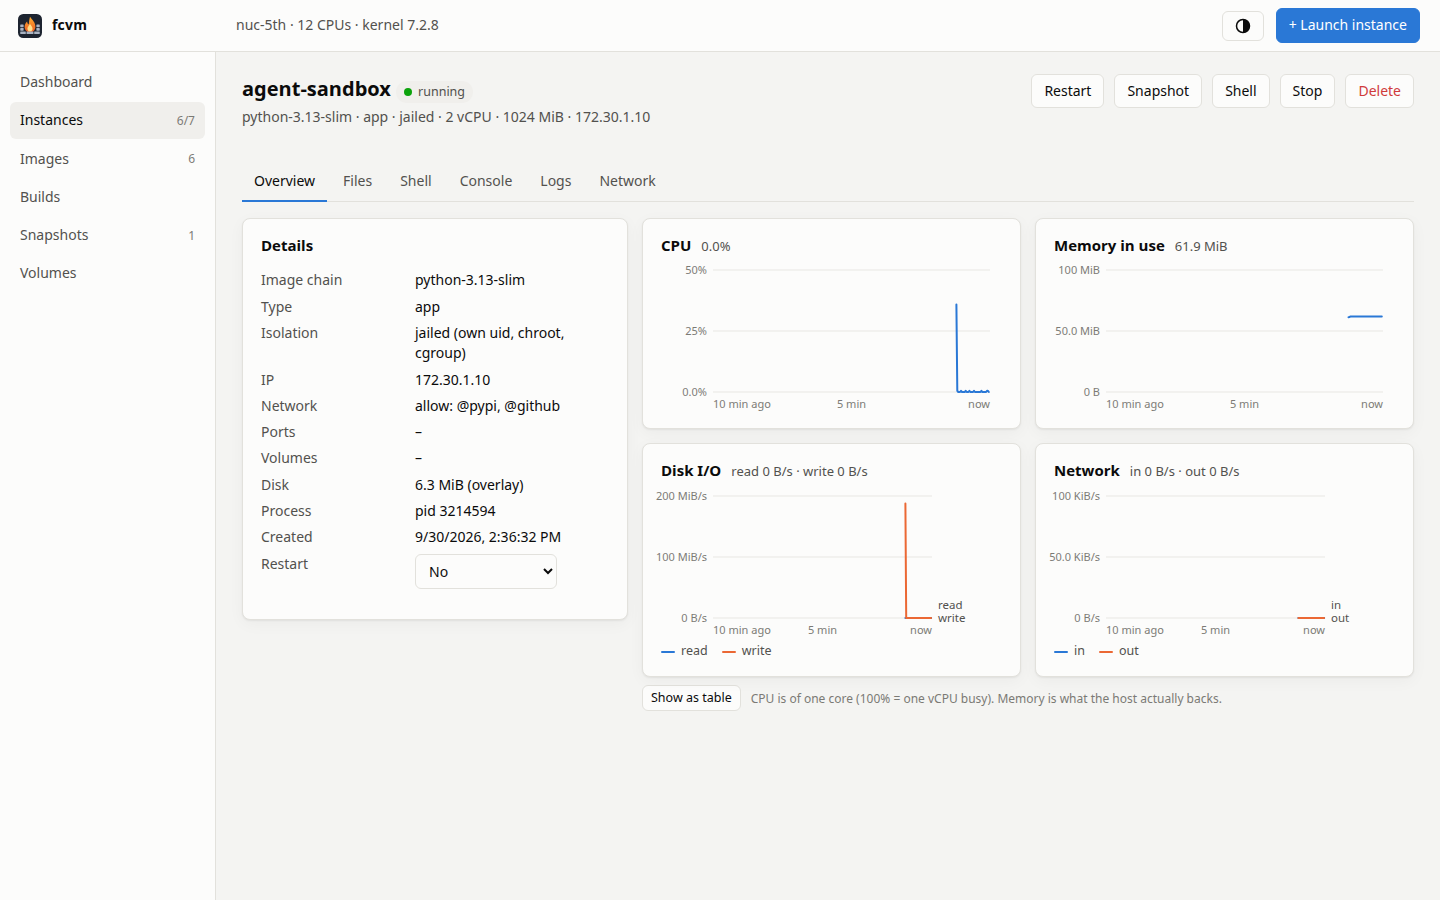
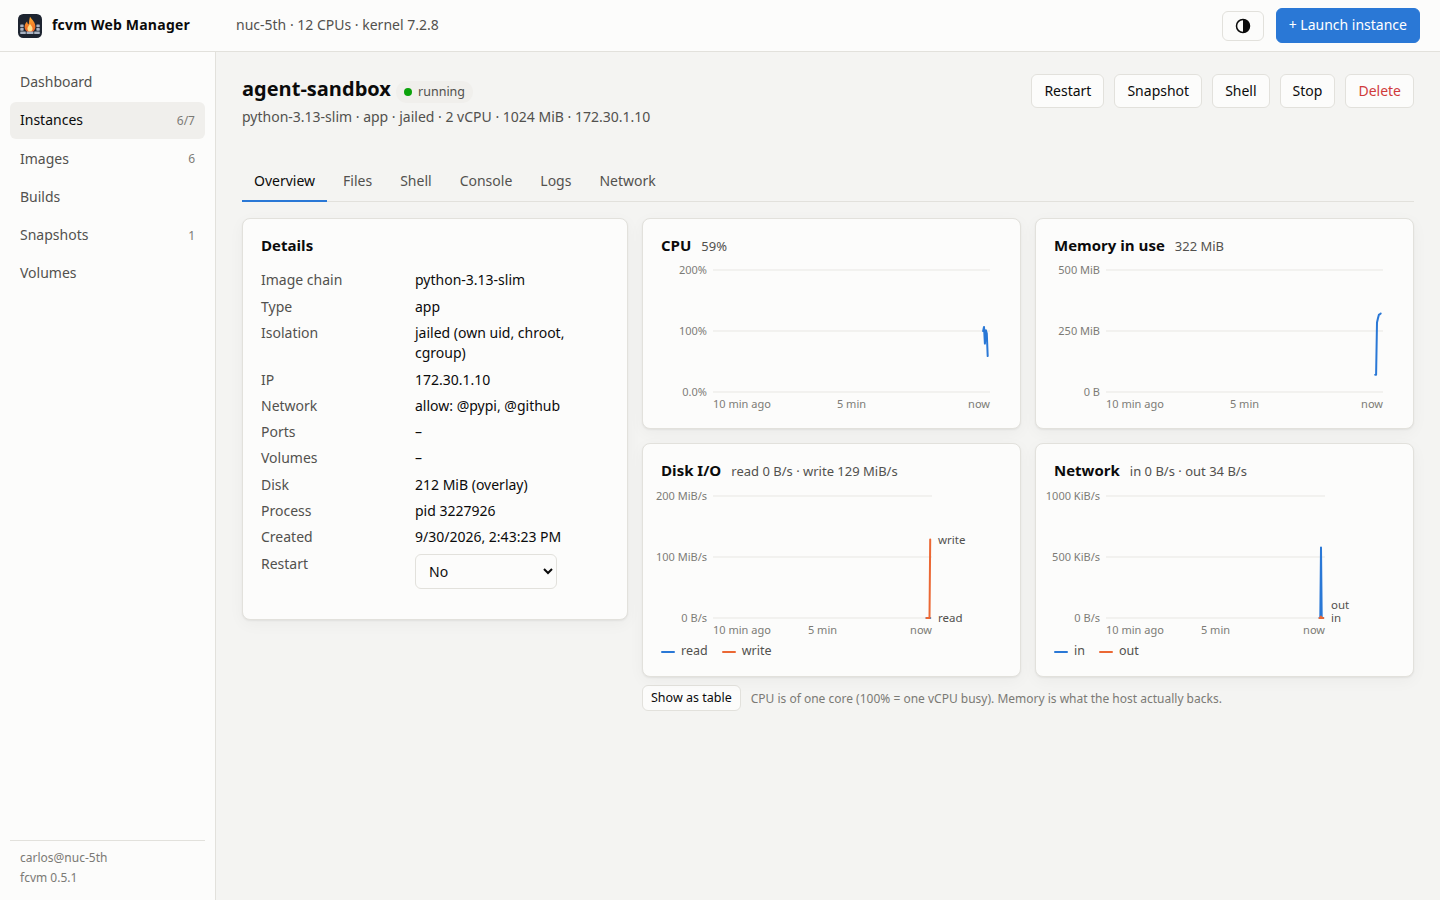
Web console: "fcvm Web Manager", user and version in the sidebar, one Launch button
- The header says "fcvm Web Manager" next to the icon.
- The bottom of the sidebar shows user@host (who the console and its VMs run
  as) and the fcvm release, linked to the changelog, with the exact build in
  the tooltip. /api/host includes user and version for it. Hidden on
  phones, where the sidebar becomes a strip.
- The Instances page no longer has a second "+ Launch instance" under the
  top bar's.
- Screenshots retaken.

Claude-Session: https://claude.ai/code/session_01QVeYKtNTbJKsdmR5X97hsQ

diff --git a/lib/web/static/app.js b/lib/web/static/app.js
@@ -123,6 +123,10 @@ function chrome() {
   const hst = state.host;
   if (hst) {
     $("host").textContent = `${hst.hostname} · ${hst.cpus} CPUs · kernel ${hst.kernel.replace("vmlinux-", "")}`;
+    if (!$("about").childElementCount && hst.version) $("about").replaceChildren(
+      h("div", { title: "the user this console (and its VMs) run as" }, `${hst.user}@${hst.hostname}`),
+      h("a", { href: "https://github.com/carlosbravoa/fcvm/blob/main/CHANGELOG.md", target: "_blank", rel: "noopener",
+               title: `fcvm ${hst.version}: what's new` }, `fcvm ${hst.version.split("+")[0]}`));
     const active = state.jobs.filter((j) => j.status === "running");
     $("foot").replaceChildren(active.length ? h("div", { class: "jobs" },
       active.map((j) => h("div", { class: "job" }, "⟳ ", j.title))) : "");
@@ -343,7 +347,7 @@ function instances() {
   $("main").replaceChildren(
     h("div", { class: "head" }, h("div", {}, h("h1", {}, "Instances"),
       h("p", { class: "sub" }, "Firecracker microVMs. App VMs run their image's command; system VMs boot systemd.")),
-      h("span", { class: "spacer" }), h("button", { class: "primary", onclick: () => launchDialog() }, "+ Launch instance")),
+      h("span", { class: "spacer" })),
     h("div", { class: "card", style: "overflow-x:auto" }, state.vms.length ? h("table", {},
       h("thead", {}, h("tr", {}, ["Name", "State", "Image", "IP", "vCPU", "Memory", "Network", "Created", ""].map((c, i) =>
         h("th", { class: i === 4 ? "num" : "" }, c)))),

diff --git a/lib/web/static/style.css b/lib/web/static/style.css
@@ -100,6 +100,10 @@ nav a:hover { background: var(--surface-2); text-decoration: none; }
 nav a.active { background: var(--surface-2); color: var(--text-primary); }
 nav .count { margin-left: auto; font-size: 12px; color: var(--text-muted); }
 nav .foot { margin-top: auto; font-size: 12px; color: var(--text-muted); padding: 8px 10px; }
+nav .about { font-size: 12px; color: var(--text-muted); padding: 8px 10px 2px; border-top: 1px solid var(--border);
+  display: flex; flex-direction: column; gap: 2px; overflow-wrap: anywhere; }
+nav .about a { padding: 0; color: var(--text-muted); font-weight: 400; }
+nav .about a:hover { background: none; color: var(--accent); }
 main { grid-area: main; overflow: auto; padding: 22px 26px 60px; }
 
 h1 { font-size: 20px; margin: 0 0 4px; font-weight: 650; }
@@ -233,7 +237,7 @@ pre.log {
 @media (max-width: 760px) {
   body { grid-template-columns: 1fr; grid-template-areas: "brand" "top" "nav" "main"; grid-template-rows: 52px 52px auto 1fr; }
   nav { flex-direction: row; overflow-x: auto; border-right: none; border-bottom: 1px solid var(--border); }
-  nav .foot { display: none; }
+  nav .foot, nav .about { display: none; }
   main { padding: 16px; }
   .modal .form { grid-template-columns: 1fr; }
 }

diff --git a/lib/web/static/index.html b/lib/web/static/index.html
@@ -12,7 +12,7 @@
   <script src="/static/app.js" defer></script>
 </head>
 <body>
-  <div class="brand"><span class="logo" aria-hidden="true"></span> fcvm</div>
+  <div class="brand"><span class="logo" aria-hidden="true"></span> fcvm Web Manager</div>
   <div class="top">
     <span class="host" id="host">…</span>
     <span class="spacer"></span>
@@ -27,6 +27,7 @@
     <a href="#/snapshots" data-page="snapshots">Snapshots <span class="count" id="n-snapshots"></span></a>
     <a href="#/volumes" data-page="volumes">Volumes <span class="count" id="n-volumes"></span></a>
     <div class="foot" id="foot"></div>
+    <div class="about" id="about"></div>
   </nav>
   <main id="main"></main>
   <div class="toasts" id="toasts" aria-live="polite"></div>

diff --git a/lib/web/server.py b/lib/web/server.py
@@ -28,10 +28,12 @@ import hashlib
 import json
 import mimetypes
 import os
+import pwd
 import re
 import secrets
 import shutil
 import struct
+import subprocess
 import sys
 import time
 import urllib.parse
@@ -451,6 +453,10 @@ class App:
         self.supervisor = Supervisor(FCVM, VMS)
         self.jobs = Jobs()
         self.stats = Stats()
+        # who runs this console, and which fcvm (for the sidebar's footer)
+        self.user = pwd.getpwuid(os.getuid()).pw_name
+        v = subprocess.run([FCVM, "-V"], capture_output=True, text=True).stdout.split()
+        self.version = v[1] if len(v) > 1 else "?"
         self.last_builds = {}
 
     # auth -------------------------------------------------------------------------
@@ -789,6 +795,7 @@ class App:
         locks = os.path.join(VMS, ".locks")
         return {
             "hostname": os.uname().nodename, "cpus": os.cpu_count(), "load": [float(x) for x in load],
+            "user": self.user, "version": self.version,
             "kernel": os.path.basename(os.path.realpath(os.path.join(STATE, "kernels", "vmlinux"))),
             "disk_total": st.f_blocks * st.f_frsize, "disk_free": st.f_bavail * st.f_frsize,
             "taps_full": taps("fctap"), "taps_restricted": taps("fcrtap"),

diff --git a/CHANGELOG.md b/CHANGELOG.md
@@ -8,6 +8,10 @@ to move across.
 
 - Web console: a "jailed" tag next to jailed VMs in the Instances list and
   the dashboard, and on the instance page. Instance rows stay on one line.
+- Web console: titled "fcvm Web Manager". The bottom of the sidebar shows
+  the user and host it runs as, and the fcvm version (linking to the
+  changelog). The Instances page no longer repeats the Launch button that's
+  already in the top bar.
 
 ## 0.5.1 (2026-09-30)
 
